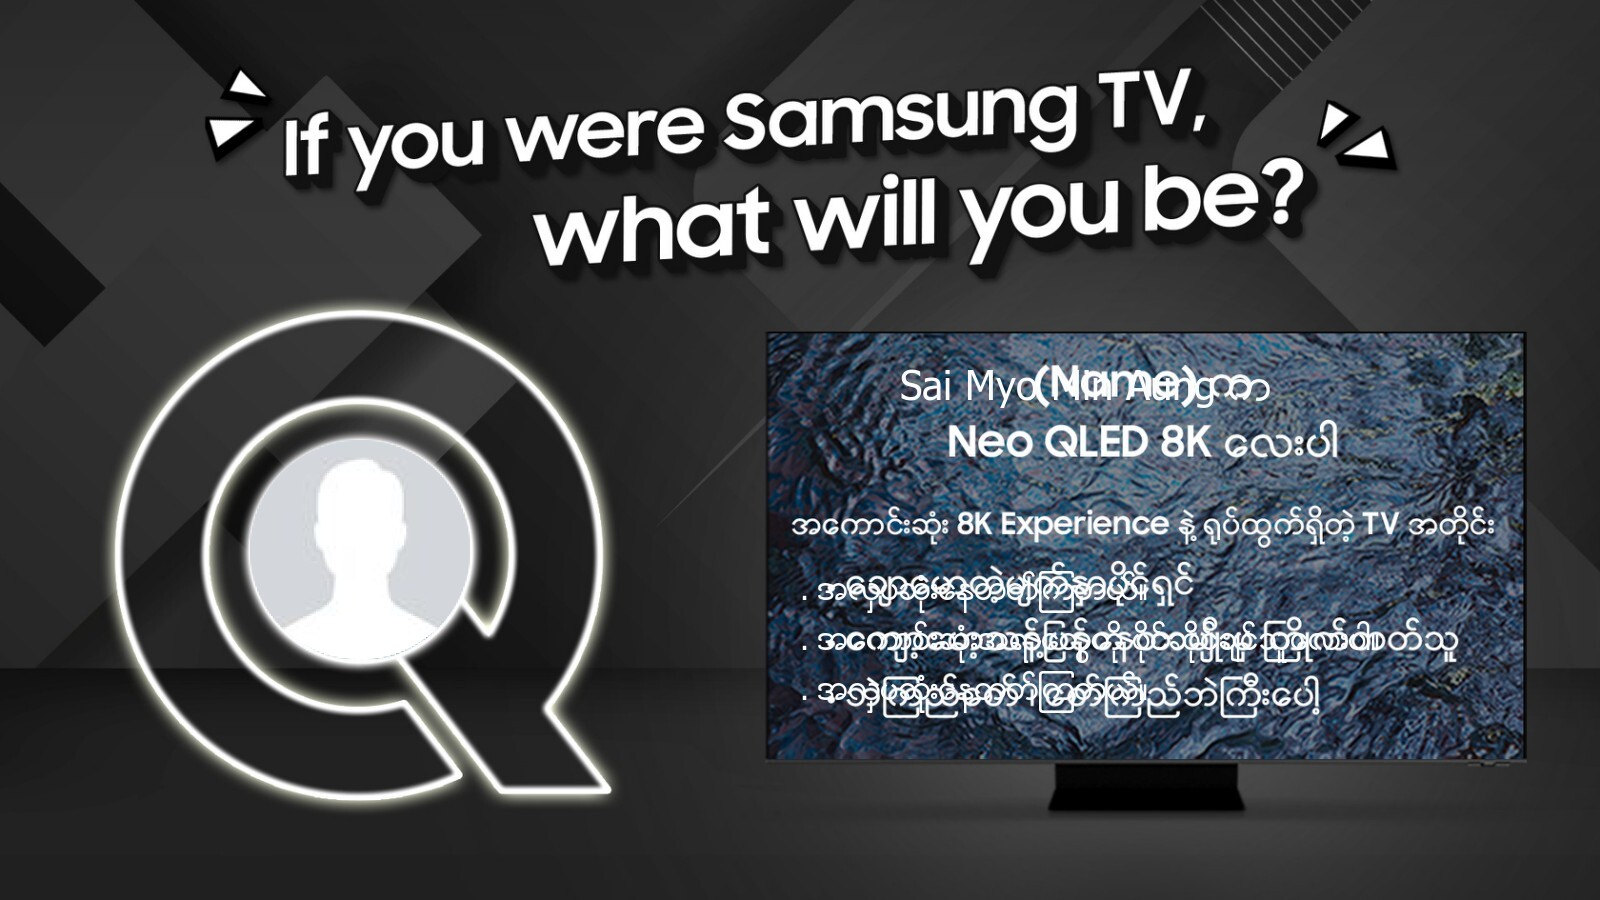
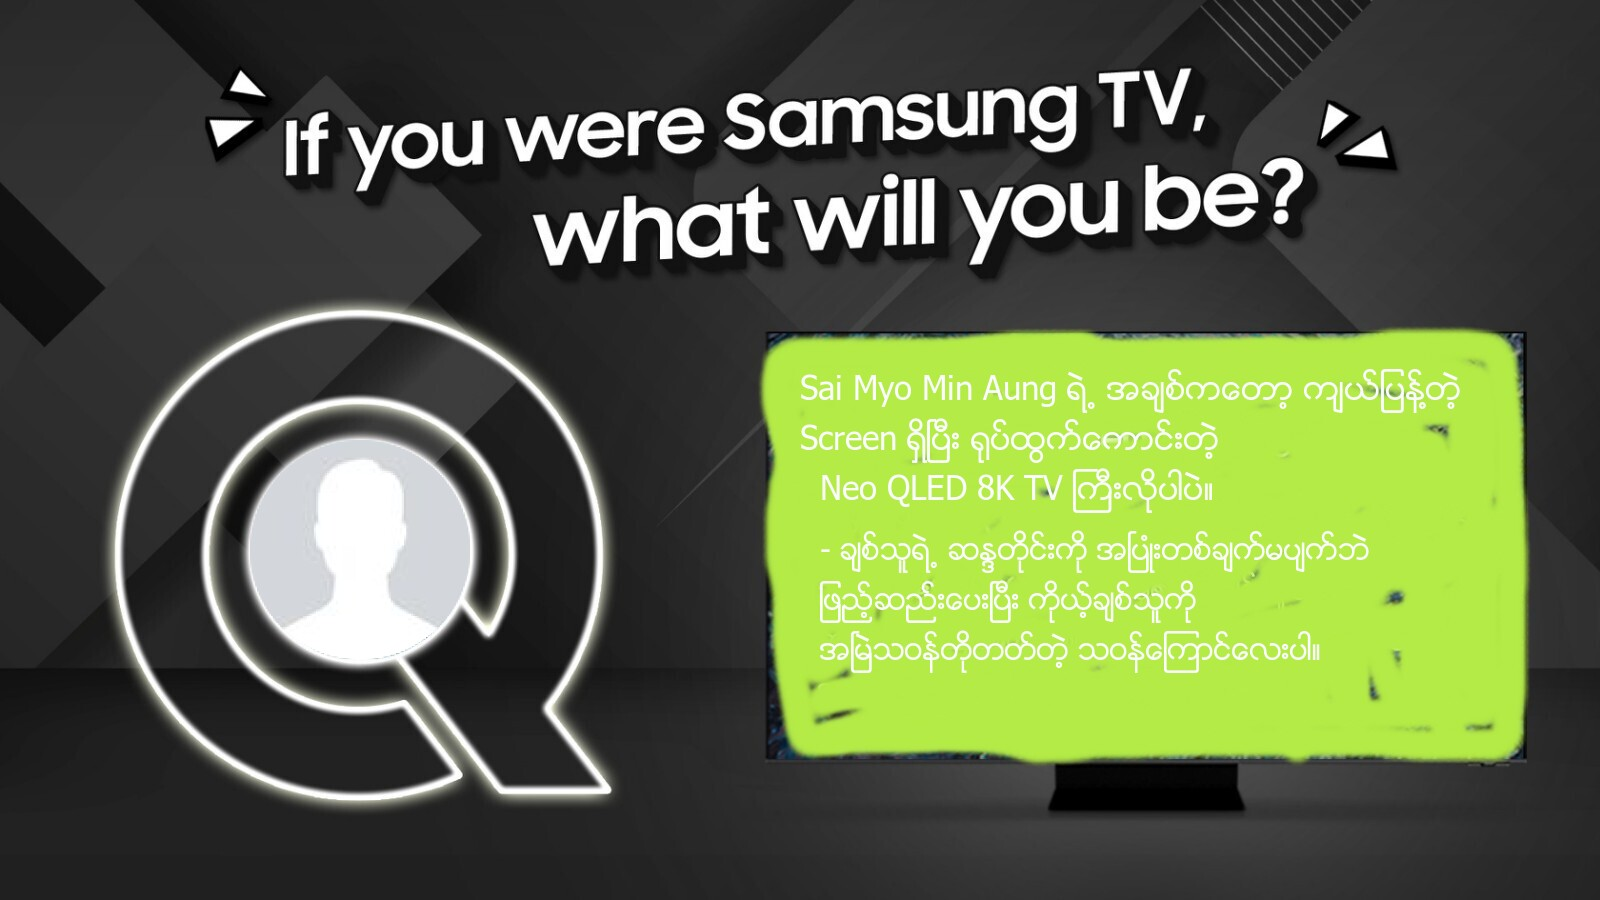
finish multiple tv

Changed region(s): [[0.4688, 0.3422, 0.9688, 0.8711]]

diff --git a/config/samsung.php b/config/samsung.php
@@ -1,0 +1,108 @@
+<?php
+
+return [
+    [
+        'tv_location' => '/samsung_support_photos/neo_qled_8k.jpg',
+        'tv_name' => 'Neo QLED 8K',
+        'tv_main_title' => 'Beyond TV Feature, Big size highlighted',
+        'tv_first_title' => 'ရဲ့ အချစ်ကို ကိုယ်စားပြုတာကတော့',
+        'tv_second_title' => 'စွမ်းဆောင်ရည်မြင့်မားပြီး ရုပ်ထွက်ကြည်လင်တဲ့',
+        'tv_third_title' => 'Neo QLED 8K TV လေးပါ။',
+        'tv_sub_title' => [
+            '- ချစ်သူသည်သာကိုယ့်ကမ္ဘာလို့',
+            'သတ်မှတ်ရလောက်တဲ့အထိအချစ်ကြီးပြီး',
+            'ချစ်သူထိဓားကြည့်ဆိုတဲ့သူတစ်ဦးပါ။ '
+        ]
+    ],
+    [
+        'tv_location' => '/samsung_support_photos/neo_qled_8k.jpg',
+        'tv_name' => 'Neo QLED 8K',
+        'tv_main_title' => 'Beyond TV Feature, Big size highlighted',
+        'tv_first_title' => 'ရဲ့ အချစ်ကတော့ ကျယ်ပြန့်တဲ့',
+        'tv_second_title' => 'Screen ရှိပြီး ရုပ်ထွက်ကောင်းတဲ့',
+        'tv_third_title' => 'Neo QLED 8K TV ကြီးလိုပါပဲ။',
+        'tv_sub_title' => [
+            '- ချစ်သူရဲ့ ဆန္ဒတိုင်းကို အပြုံးတစ်ချက်မပျက်ဘဲ',
+            'ဖြည့်ဆည်းပေးပြီး ကိုယ့်ချစ်သူကို',
+            'အမြဲသဝန်တိုတတ်တဲ့ သဝန်ကြောင်လေးပါ။'
+        ]
+    ],
+    [
+        'tv_location' => '/samsung_support_photos/oled.jpg',
+        'tv_name' => 'OLED',
+        'tv_main_title' => 'Slim Feature, Matte Black, More wow than ever',
+        'tv_first_title' => 'ရဲ့အချစ်ကို ကိုယ်စားပြုတာကတော့',
+        'tv_second_title' => 'WOW Design WOW Feeling ပေးတဲ့',
+        'tv_third_title' => 'OLED TVလေးပါ',
+        'tv_sub_title' => [
+            '- အများကသြချရလောက်တဲ့ထိ',
+            'ချစ်ပြတတ်ပြီး Surprise ',
+            'တိုက်တတ်တဲ့ချစ်သူမျိုးပါ။'
+        ]
+    ],
+    [
+        'tv_location' => '/samsung_support_photos/oled.jpg',
+        'tv_name' => 'OLED',
+        'tv_main_title' => 'Slim Feature, Matte Black, More wow than ever',
+        'tv_first_title' => 'ရဲ့အချစ်ကိုကိုယ်စားပြုတာက',
+        'tv_second_title' => 'ကိုယ်ထည်သေးပြီး WOW Feeling တွေပေးတဲ့',
+        'tv_third_title' => 'OLED TVလေးပါ။',
+        'tv_sub_title' => [
+            '- မိုးလောက်ထိချစ်ပါတယ်ဆိုပေမဲ့ ',
+            'အချစ်တွေကိုဖော်ပြဖို့ဝန်လေးတတ်တဲ့',
+            'ရေခဲတုံးကြီးပါ။'
+        ]
+    ],
+    [
+        'tv_location' => '/samsung_support_photos/qled.jpg',
+        'tv_name' => 'QLED',
+        'tv_main_title' => 'Quantum Processor 4k, Motion accelertor',
+        'tv_first_title' => 'ရဲ့အချစ်ကို ',
+        'tv_second_title' => 'ရုပ်ထွက်ကြည်လင်ပြတ်သားပြီး Motion Processor ပါတဲ့',
+        'tv_third_title' => ' QLED TV လေးကကိုယ်စားပြုပါတယ်။',
+        'tv_sub_title' => [
+            '- ချစ်သူအနားမှာ ကြောင်လေးတစ်ကောင်လိုအမြဲချွဲပြီး',
+            'အရိပ်တကြည့်ကြည့်နဲ့ဖြည့်ဆည်းပေးတဲ့',
+            'အကြည်ဓာတ်လေးပါ။'
+        ]
+    ],
+    [
+        'tv_location' => '/samsung_support_photos/qled.jpg',
+        'tv_name' => 'QLED',
+        'tv_main_title' => 'Quantum Processor 4k, Motion accelertor',
+        'tv_first_title' => 'ရဲ့အချစ်ကို',
+        'tv_second_title' => 'ကိုယ်စားပြုတာကတော့',
+        'tv_third_title' => 'ရုပ်ထွက်ကြည်လင်တဲ့ QLED TV ပါ။',
+        'tv_sub_title' => [
+            '- ချစ်သူအကြိုက်၊ အလိုက်ကို ကကြီးအစ၊',
+            'အအဆုံး သိနေပြီး မျက်နှစ်တစ်ချက်မညှိုးရအောင်',
+            'ဖြည့်ဆည်းပေးတတ်သူပါ။'
+        ]
+    ],
+    [
+        'tv_location' => '/samsung_support_photos/crystal_uhd.jpg',
+        'tv_name' => 'Crystal UHD',
+        'tv_main_title' => 'Crystal Clear, easy accessbile with laptop , Smart Hub',
+        'tv_first_title' => 'ရဲ့အချစ်ကို ကိုယ်စားပြုတာကတော့',
+        'tv_second_title' => 'အသံကြည်ပြီး Easy Accessible ဖြစ်တဲ့',
+        'tv_third_title' => 'Crystal UHD ပါ။',
+        'tv_sub_title' => [
+            '- အမေပြောတဲ့အမောပြေချစ်သူမျိုးဖြစ်ပြီး',
+            'ချစ်သူရဲ့ပတ်ဝန်းကျင်မှာရှိတဲ့သူအားလုံးနဲ့',
+            'ဝင်ဆံ့အောင်ပေါင်းသင်းနိုင်တဲ့ အချစ်တော်လေးပါ။'
+        ]
+    ],
+    [
+        'tv_location' => '/samsung_support_photos/crystal_uhd.jpg',
+        'tv_name' => 'Crystal UHD',
+        'tv_main_title' => 'Crystal Clear, easy accessbile with laptop , Smart Hub',
+        'tv_first_title' => 'ရဲ့အချစ်ကိုတော့',
+        'tv_second_title' => 'အသံကြည်တဲ့ ',
+        'tv_third_title' => 'Crystal UHD တွေကကိုယ်စားပြုပါတယ်။',
+        'tv_sub_title' => [
+            '- ချစ်သူရွှေစိတ်တော်မညိုးရအောင်',
+            'လိုက်လျောညီထွေနေပြီး ဖြည့်ဆည်းတတ်တဲ့',
+            'ချစ်သူ့အမောပြေရေခဲရေလေးပါ။'
+        ]
+    ]
+];

diff --git a/app/Http/Controllers/FacebookController.php b/app/Http/Controllers/FacebookController.php
@@ -24,7 +24,7 @@ class FacebookController extends Controller
         return view('terms-of-service');
     }
 
-    public function faceboolLogin()
+    public function facebookLogin()
     {
         return view('facebook-login');
     }
@@ -33,7 +33,7 @@ class FacebookController extends Controller
     {
         $share = new Share();
         $facebookShareUrl = $share->page(
-            route('samsung-tv', ['id' => $request->id]),
+            route('samsung-tv', ['id' => $request->id, 'tryButton' => 1]),
             'Samung TV',
         )->facebook()->getRawLinks();
 
@@ -108,26 +108,10 @@ class FacebookController extends Controller
                     'facebook_id' => $user->id,
                     'avatar' => $user->avatar
                 ]);
-
-                // return redirect()->intended('dashboard');
             }
 
             // get profile square photo
             $avatarContents = file_get_contents($user->getAvatar());
-
-            // get orginal photo
-            // https://developers.facebook.com/docs/graph-api/reference/user/picture
-            // $fileContents = file_get_contents($user->avatar_original . "&access_token=" . $user->token);
-
-            // get orignal photo with custom size
-            // $fileContents = file_get_contents($user->avatar_original . "&width=500&height=500&large&access_token=" . $user->token);
-
-            // save photo to public folder
-            // File::put(public_path() . '/user_profiles/' . $user->getId() . ".jpg", $avatarContents);
-
-
-            //To show picture 
-            // $picture = public_path('user_profiles/' . $user->getId() . ".jpg");
 
             // create new image instance
             $avatarImage = $imageManager->make($avatarContents);
@@ -136,15 +120,14 @@ class FacebookController extends Controller
             // fit
             $avatarImage->fit(220, 220);
             $avatarImage->mask($avatarMask, false);
-            // $avatarImage->save($picture);
-            // $avatarImage->composite
-            // crop
-            // $tvImage->crop(1024, 960);
 
-            $backgroundImage = $imageManager->make(public_path('samsung_support_photos/TV.jpg'));
+            $data = config('samsung');
+            $random = rand(0, count($data) - 1);
+            $randomData = $data[$random];
+
+            $backgroundImage = $imageManager->make(public_path($randomData['tv_location']));
 
             $backgroundImage->insert($avatarImage, 'top-left', 250, 440);
-            // $backgroundImage->insert($avatarImage, 'top-left', 0, 0);
 
             $detector = new ZawgyiDetector();
 
@@ -158,55 +141,40 @@ class FacebookController extends Controller
                 $profileName = $user->name;
             }
 
-            $firstTitle = $profileName . ' က';
-            $secondTitle = ' Neo QLED 8K လေးပါ';
-            $allFunnyText = [
-                [
-                    '. အေကာင္းဆုံးအရာေတြကို ပိုင္ဆိုင္ခ်င္သူေလးပါ။'
-                ],
-                [
-                    '. အလွပဆုံးေနတတ္ၾကတယ္။'
-                ],
-                [
-                    '. အေကာင္းဆုံးအရာေတြကို ပိုင္ဆိုင္ခ်င္သူေလးပါ။'
-                ],
-                [
-                    '. အလွပဆုံးေနတတ္ၾကတယ္။'
-                ]
-            ];
-            $random_keys = array_rand($allFunnyText, 3);
-            $funnyText = [
-                $allFunnyText[$random_keys[0]],
-                $allFunnyText[$random_keys[1]],
-                $allFunnyText[$random_keys[2]],
-            ];
+            $firstTitle = $profileName . ' ' . Rabbit::uni2zg($randomData['tv_first_title']);
+            $secondTitle = Rabbit::uni2zg($randomData['tv_second_title']);
+            $thirdTitle = Rabbit::uni2zg($randomData['tv_third_title']);
+
+            $randomData['tv_first_title'] = $profileName . ' ' . $randomData['tv_first_title'];
 
             $gameUsedUser->update([
-                'text_data' => json_encode([
-                    'first_title' => $firstTitle,
-                    'second_title' => $secondTitle,
-                    'funny_text' => Arr::flatten($funnyText)
-                ])
+                'text_data' => json_encode($randomData)
             ]);
 
-            $backgroundImage->text($firstTitle, 900, 400, function ($font) {
+            $backgroundImage->text($firstTitle, 800, 400, function ($font) {
                 $font->file(public_path('Zawgyi-One.ttf'));
                 $font->color('#fafbfc');
-                $font->size(40);
+                $font->size(33);
             });
 
-            // $backgroundImage->text($secondTitle, 950, 450, function ($font) {
-            //     $font->file(public_path('Zawgyi-One.ttf'));
-            //     $font->color('#09c9eb');
-            //     $font->size(40);
-            // });
+            $backgroundImage->text($secondTitle, 800, 450, function ($font) {
+                $font->file(public_path('Zawgyi-One.ttf'));
+                $font->color('#fafbfc');
+                $font->size(33);
+            });
 
-            $x = 800;
-            $y = 550;
+            $backgroundImage->text($thirdTitle, 820, 500, function ($font) {
+                $font->file(public_path('Zawgyi-One.ttf'));
+                $font->color('#fafbfc');
+                $font->size(33);
+            });
 
-            foreach (Arr::flatten($funnyText) as $eachText) {
+            $x = 820;
+            $y = 510;
+
+            foreach (Arr::flatten($randomData['tv_sub_title']) as $eachText) {
                 $y += 50;
-                $backgroundImage->text($eachText, $x, $y, function ($font) {
+                $backgroundImage->text(Rabbit::uni2zg($eachText), $x, $y, function ($font) {
                     $font->file(public_path('Zawgyi-One.ttf'));
                     $font->color('#fafbfc');
                     $font->size(30);

diff --git a/resources/views/samsung-tv.blade.php b/resources/views/samsung-tv.blade.php
@@ -61,24 +61,29 @@
 
 <body>
     <div class="container">
+        <div class="row col justify-content-center">
+            <h2>{{ $textData['tv_name'] }}</h2>
+        </div>
         <div class="row">
             <div class="col">
-                <div class="text-center m-3">
-                    @if (isset($textData['first_title']) && isset($textData['second_title']))
-                        <p>{{ \Rabbit::zg2uni($textData['first_title']) }} {{ \Rabbit::zg2uni($textData['second_title']) }}</p>
+                <div class="text-center">
+                    @if (isset($textData['tv_first_title']) && isset($textData['tv_second_title']) && isset($textData['tv_third_title']))
+                        <p>{{ $textData['tv_first_title'] }} </p>
+                        <p>{{ $textData['tv_second_title'] }}</p>
+                        <p>{{ $textData['tv_third_title'] }}</p>
                     @endif
                 </div>
             </div>
         </div>
 
 
-        <div class="row  justify-content-center">
-            <div class="col-4">
-                @if (isset($textData['funny_text']))
+        <div class="row justify-content-center">
+            <div class="col">
+                @if (isset($textData['tv_sub_title']))
                     <div class="text-center mb-3">
                         <p class="">
-                            @foreach ($textData['funny_text'] as $text)
-                                {{ \Rabbit::zg2uni($text) }} <br>
+                            @foreach ($textData['tv_sub_title'] as $text)
+                                {{ $text }} <br>
                             @endforeach
                         <p>
 
@@ -94,12 +99,14 @@
         </div>
 
         <div class="row justify-content-center mt-2">
-            <a href="{{ $facebookShareUrl }}&tryButton=show" class="btn btn-lg btn-social btn-facebook m-2">
-                <i class="fa-solid fa-share"></i> Share to facebook
-            </a>
+            @if (!isset(request()->tryButton))
+                <a href="{{ $facebookShareUrl }}&tryButton=show" class="btn btn-lg btn-social btn-facebook m-2">
+                    <i class="fa-solid fa-share"></i> Share to facebook
+                </a>
+            @endif
             @if (isset(request()->tryButton))
                 <a href="{{ url('auth/facebook') }}" class="btn btn-lg btn-social btn-facebook m-2">
-                    <i class="fa-brands fa-facebook-f"></i> Login to play
+                    <i class="fa-brands fa-facebook-f"></i> Login to play this game
                 </a>
             @endif
         </div>

diff --git a/routes/web.php b/routes/web.php
@@ -16,7 +16,7 @@ use App\Http\Controllers\FacebookController;
 */
 
 Route::controller(FacebookController::class)->group(function () {
-    Route::get('/', 'faceboolLogin');
+    Route::get('/', 'facebookLogin');
     Route::get('samsung-tv', 'samsungTv')->name('samsung-tv');
     Route::get('delete-user-data', 'deleteUserData')->name('delete-user-data');
     Route::get('auth/facebook', 'redirectToFacebook')->name('auth.facebook');
